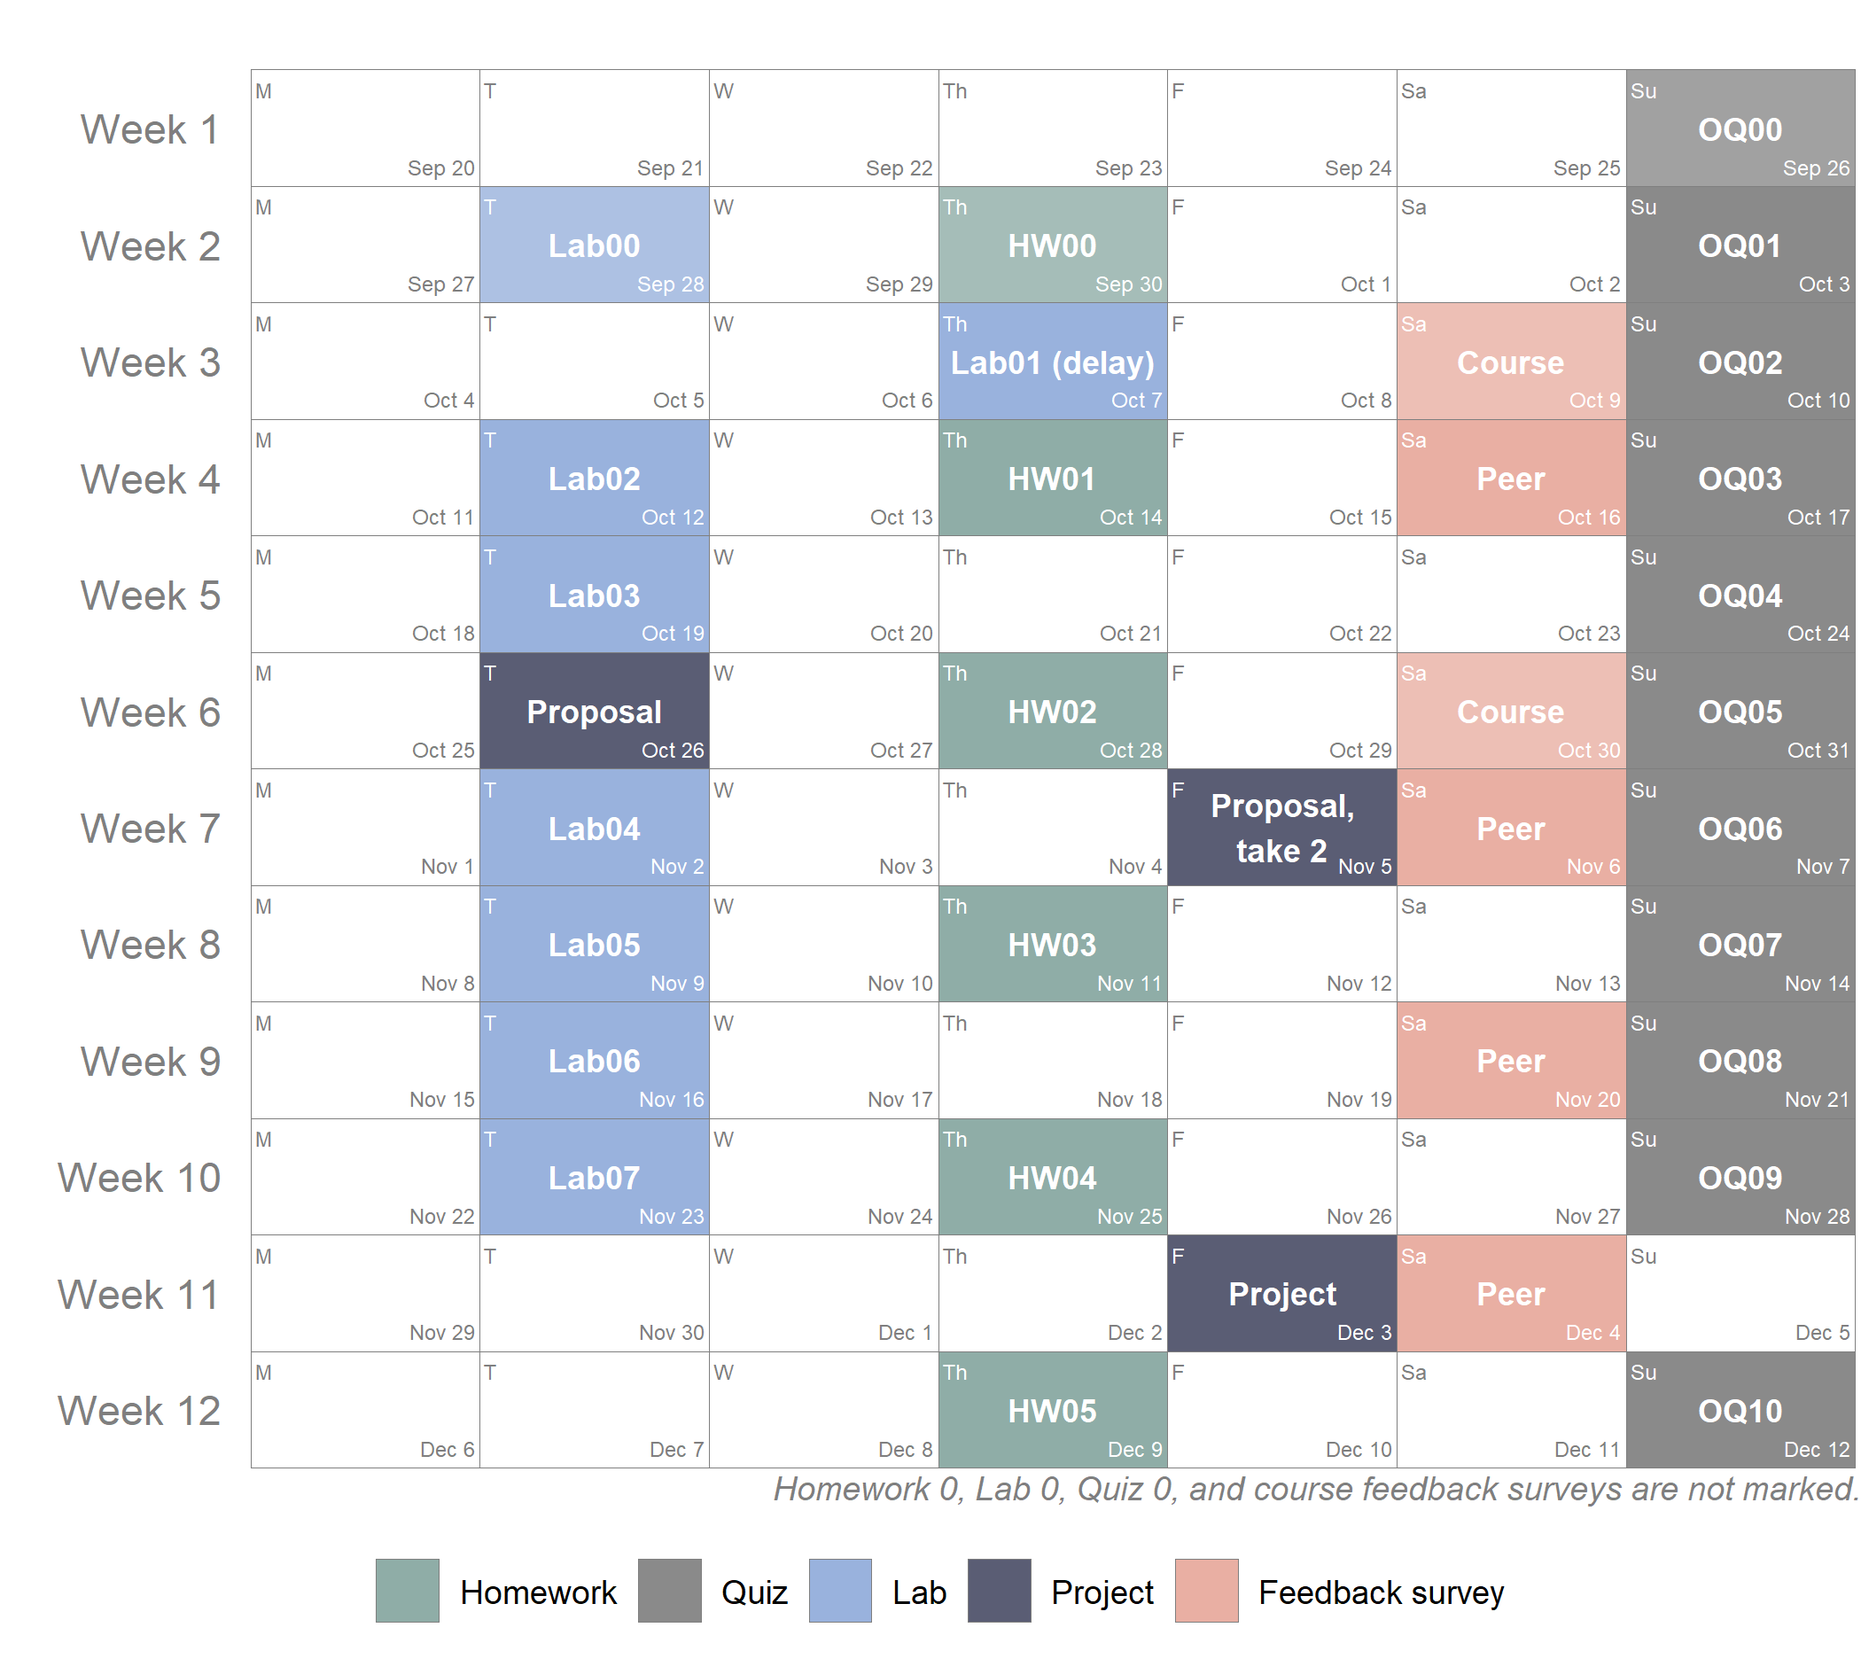
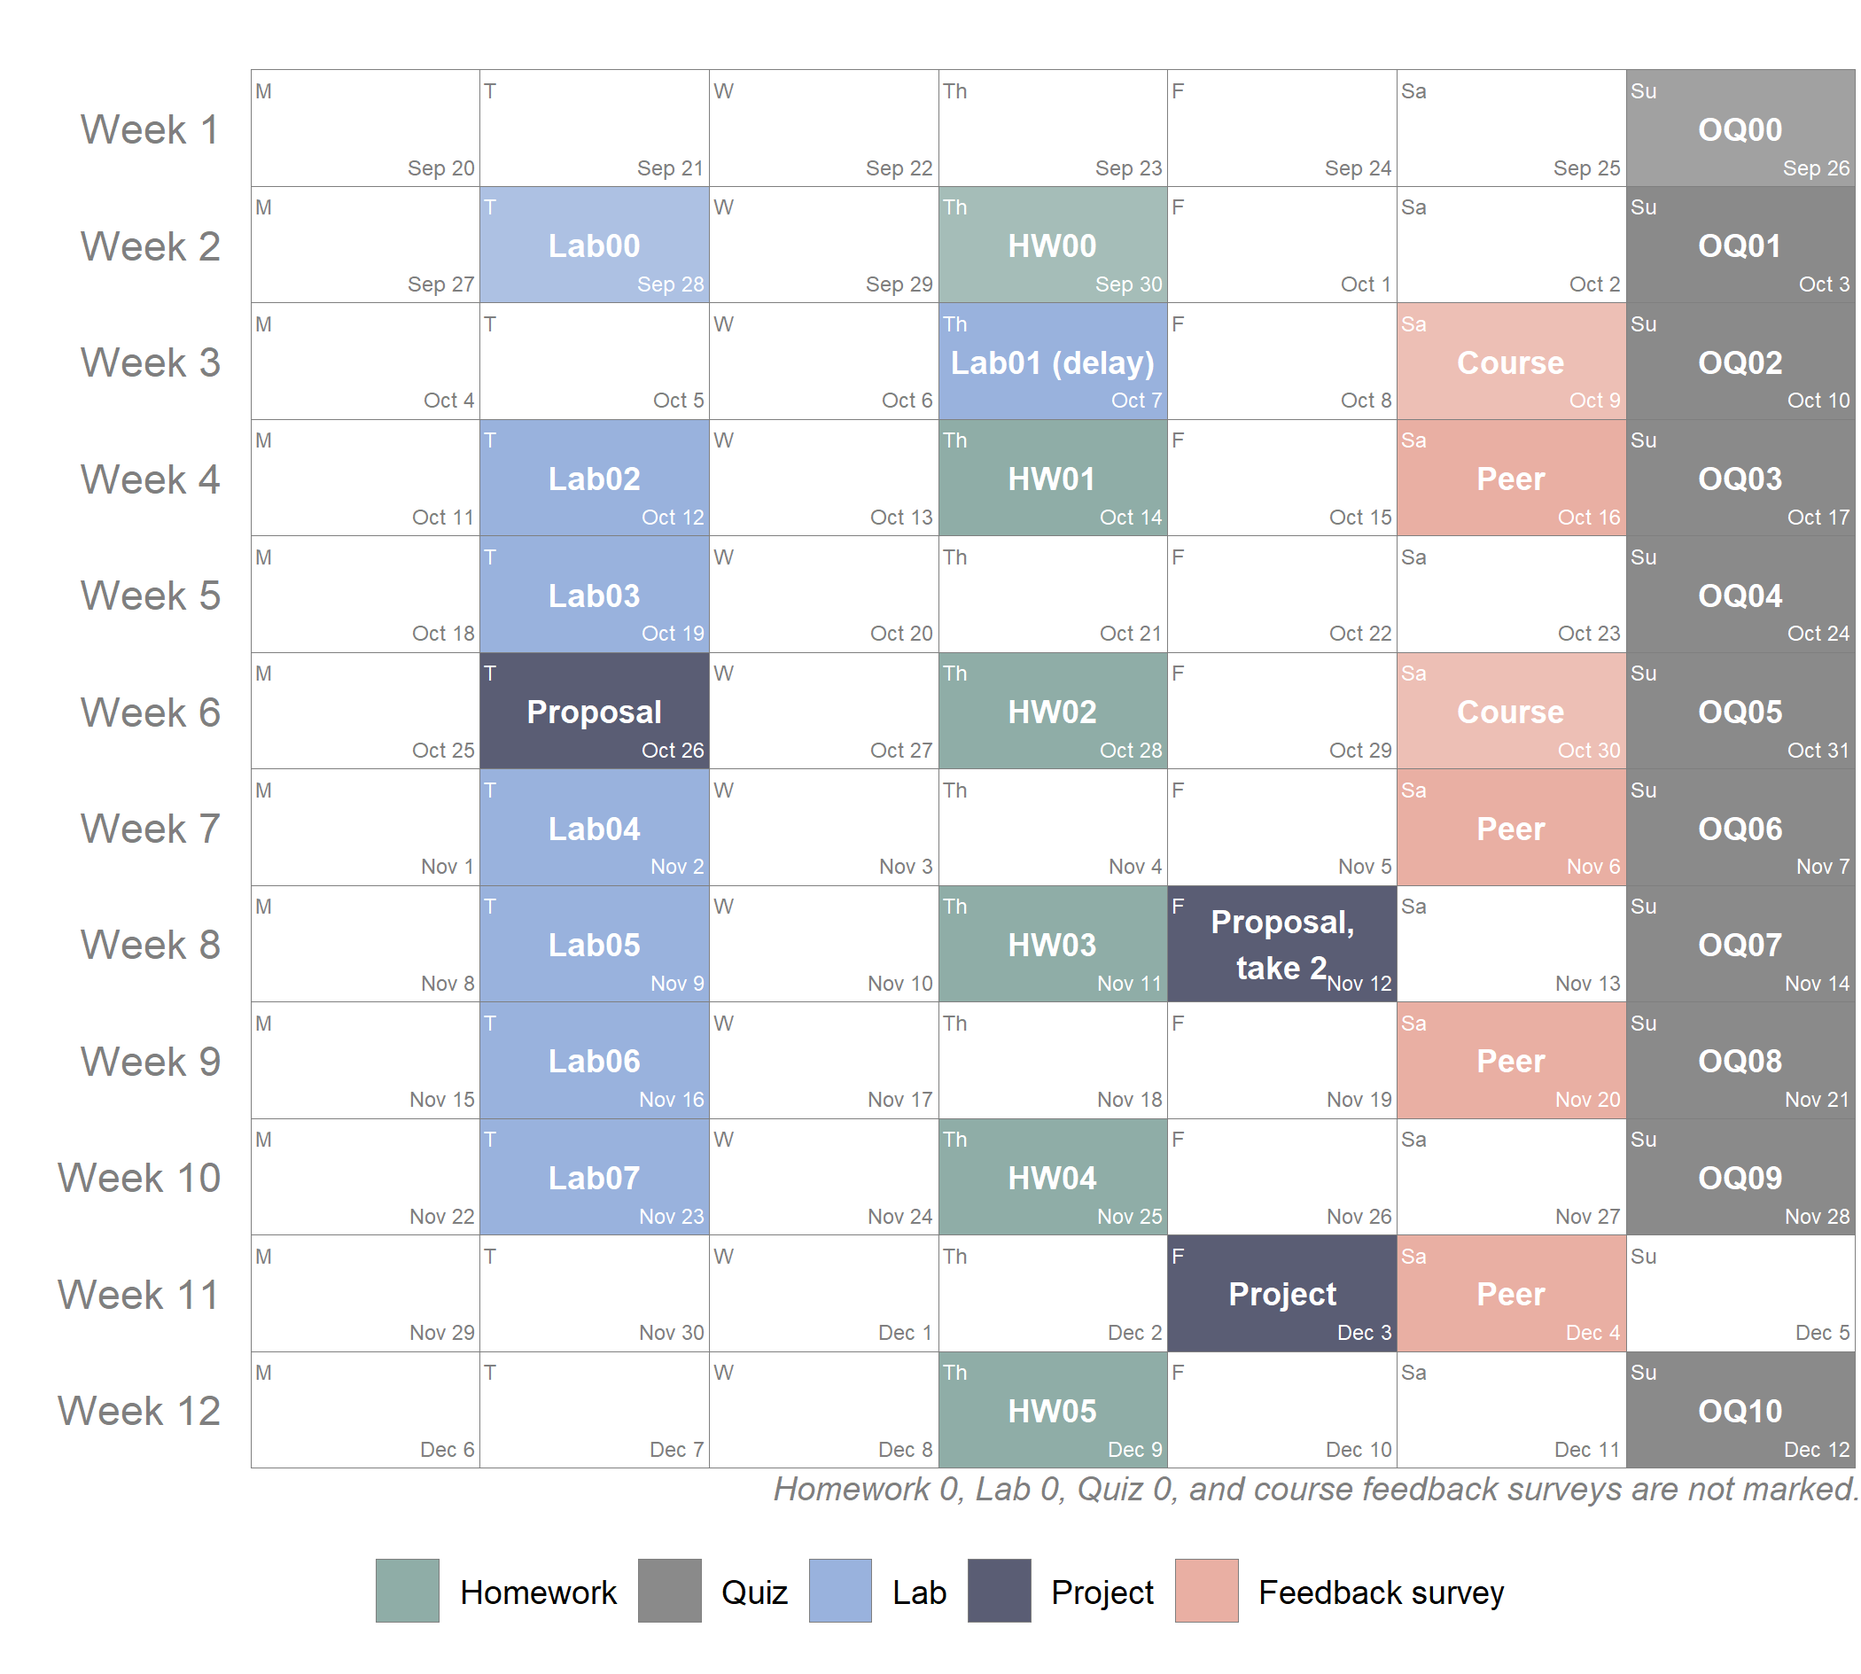
added week 6

Changed region(s): [[0.619, 0.4373, 0.7738, 0.6247]]

diff --git a/static/js/links.js b/static/js/links.js
@@ -24,6 +24,7 @@ try {document.getElementById('PiazzaHelp').href = "/troubleshoot/setup/piazza";}
 try {document.getElementById('Error1').href = "/error";} catch { };
 try {document.getElementById('Error2').href = "/error";} catch { };
 try {document.getElementById('Error3').href = "/error";} catch { };
+try {document.getElementById('Error4').href = "/error";} catch { };
 
 // Videos -----------------------------------------------------------------------------------------------------------
 try {document.getElementById("playlistmh").href = "https://media.ed.ac.uk/playlist/dedicated/1_p6bmjbvr/";} catch { };	// link to the mediahopper page
@@ -185,6 +186,40 @@ try {document.getElementById("W5L6YT").href = "https://youtu.be/b9lSW0kyqBg";} c
 try {document.getElementById("W5L6MH").href = "https://media.ed.ac.uk/media/IDS+-+Week+05+-+06+-+Doing+data+science/1_lja4qg0p";} catch { };	// mediahopper
 try {document.getElementById("W5L6S").href = "https://ids-s1-21.github.io/slides/week-05/w5-d06-doing-data-science/w5-d06-doing-data-science.html#1";} catch { };	// slides
 
+// week 6 lecture 1
+try {document.getElementById("W6L1YT").href = "";} catch { };	// youtube
+try {document.getElementById("W6L1MH").href = "";} catch { };	// mediahopper
+try {document.getElementById("W6L1S").href = "";} catch { };	// slides
+
+// week 6 lecture 2
+try {document.getElementById("W6L2YT").href = "https://youtu.be/99Hkmfb2i80";} catch { };	// youtube
+try {document.getElementById("W6L2MH").href = "https://media.ed.ac.uk/media/IDS+-+Week+06+-+02+-+Web+scraping/1_vxsk6ib7";} catch { };	// mediahopper
+try {document.getElementById("W6L2S").href = "https://ids-s1-21.github.io/slides/week-06/w6-d02-web-scrape/w6-d02-scrape.html#1";} catch { };	// slides
+
+// week 6 lecture 3
+try {document.getElementById("W6L3YT").href = "https://youtu.be/YmKULNLsDsU";} catch { };	// youtube
+try {document.getElementById("W6L3MH").href = "https://media.ed.ac.uk/media/IDS+-+Week+06+-+03+-+Scraping+IMDB+Top+250/1_5qf90v3o";} catch { };	// mediahopper
+try {document.getElementById("W6L3S").href = "https://ids-s1-21.github.io/slides/week-06/w6-d03-top-250-imdb/w6-d03-top-250-imdb.html#1";} catch { };	// slides
+
+// week 6 lecture 4
+try {document.getElementById("W6L4YT").href = "https://youtu.be/LONRJHMvSyU";} catch { };	// youtube
+try {document.getElementById("W6L4MH").href = "https://media.ed.ac.uk/media/IDS+-+Week+06+-+04+-+Web+scraping+considerations/1_brmywhm0";} catch { };	// mediahopper
+try {document.getElementById("W6L4S").href = "https://ids-s1-21.github.io/slides/week-06/w6-d04-considerations/w6-d04-considerations.html#1";} catch { };	// slides
+
+// week 6 lecture 5
+try {document.getElementById("W6L5YT").href = "https://youtu.be/PetWV5g1Xsc";} catch { };	// youtube
+try {document.getElementById("W6L5MH").href = "https://media.ed.ac.uk/media/IDS+-+Week+06+-+05+-+AEA+IMDB+%2B+Web+scraping/1_sia7s04u";} catch { };	// mediahopper
+
+// week 6 lecture 6
+try {document.getElementById("W6L6YT").href = "https://youtu.be/6KWlPhPMluE";} catch { };	// youtube
+try {document.getElementById("W6L6MH").href = "https://media.ed.ac.uk/media/IDS+-+Week+06+-+06+-+Functions/1_jb8cw8s1";} catch { };	// mediahopper
+try {document.getElementById("W6L6S").href = "https://ids-s1-21.github.io/slides/week-06/w6-d06-functions/w6-d06-functions.html#1";} catch { };	// slides
+
+// week 6 lecture 7
+try {document.getElementById("W6L7YT").href = "https://youtu.be/x3UMny1fQhc";} catch { };	// youtube
+try {document.getElementById("W6L7MH").href = "https://media.ed.ac.uk/media/IDS+-+Week+06+-+07+-+Iteration/1_70vyo0z9";} catch { };	// mediahopper
+try {document.getElementById("W6L7S").href = "https://ids-s1-21.github.io/slides/week-06/w6-d07-iteration/w6-d07-iteration.html#1";} catch { };	// slides
+
 // Application Exercises --------------------------------------------------------------------------------------------------------------------------------------------
 try {document.getElementById("AE1a").href = "https://github.com/ids-s1-21?q=ae-01a-un-votes&type=&language=&sort=";} catch { };
 try {document.getElementById("AE1b").href = "https://github.com/ids-s1-21?q=ae-01b-covid&type=&language=&sort=";} catch { };
@@ -276,10 +311,13 @@ try {document.getElementById("HW5R").href = "https://github.com/ids-s1-21?q=hw-0
 
 // Project
 try {document.getElementById('project').href = "/assessments/project";} catch { };
-try {document.getElementById("projectR").href = "https://github.com/ids-s1-21?q=project&type=&language=&sort=";} catch { };	
+try {document.getElementById("projectR").href = "https://github.com/ids-s1-21?q=project&type=&language=&sort=";} catch { };
+try {document.getElementById('project_1').href = "/assessments/project";} catch { };
+try {document.getElementById("projectR_1").href = "https://github.com/ids-s1-21?q=project&type=&language=&sort=";} catch { };
 
 // Peer Feedback ------------------------------------------------------------------------------------------------------------------------------------------
 try {document.getElementById('PE01').href = "https://forms.office.com/r/mbBhLLe6Q4";} catch { };
+try {document.getElementById('PE02').href = "https://forms.office.com/r/8JkWHxWFdF";} catch { };
 
 // Readings ------------------------------------------------------------------------------------------------------------------------------------------------
 try {document.getElementById("R4DS").href = "https://r4ds.had.co.nz";} catch { };		// R4DS
@@ -319,6 +357,10 @@ try {document.getElementById("IMS6").href = "https://openintro-ims.netlify.app/e
 try {document.getElementById("IMS2").href = "https://openintro-ims.netlify.app/data-design.html";} catch { };		// IMS
 try {document.getElementById("TSG1").href = "https://style.tidyverse.org/files.html";} catch { };		// Tidyverse style
 
+try {document.getElementById("selector").href = "https://rvest.tidyverse.org/articles/selectorgadget.html";} catch { };
+try {document.getElementById("R4DS19").href = "https://r4ds.had.co.nz/functions.html";} catch { };
+try {document.getElementById("R4DS21").href = "https://r4ds.had.co.nz/iteration.html";} catch { };
+
 // Code-Along ----------------------------------------------------------------------------------------------------------------------------------------------
 try {document.getElementById("CARepo").href = "https://ids-s1-21.github.io/code-along/";} catch { };
 try {document.getElementById("CA1YT").href = "https://youtu.be/VPbOLhU1QY8";} catch { };
@@ -345,6 +387,9 @@ try {document.getElementById("RT3").href = "https://minecr.shinyapps.io/dsbox-02
 try {document.getElementById("RT4").href = "https://rstudio.cloud/learn/primers/2";} catch { };
 try {document.getElementById("RT5").href = "https://minecr.shinyapps.io/dsbox-03-collegemajors";} catch { };
 try {document.getElementById("RT6").href = "https://minecr.shinyapps.io/dsbox-04-legosales/";} catch { };
+try {document.getElementById("RT7").href = "https://minecr.shinyapps.io/dsbox-05-moneyinpolitics/";} catch { };
+try {document.getElementById("RT8").href = "https://rstudio.cloud/learn/primers/6";} catch { };
+try {document.getElementById("RT9").href = "https://rstudio.cloud/learn/primers/5";} catch { };
 
 // Datasets ---------------------------------------------------------------------------------------------------------------------------------------------
 // TidyTuesday

diff --git a/content/week06/_index.en.md b/content/week06/_index.en.md
@@ -7,7 +7,7 @@ weight: 6
 tags: ["week 6", "tasks", "videos", "assignments", "readings", "code-along", "tutorials"] 
 description: "Week 6 (25 Oct 2021 - 31 Oct 2021): Harvesting data from the web, writing functions, and iteration."
 
-hidden: true
+hidden: false
 ---
 
 # Web Scraping and Programming
@@ -29,9 +29,19 @@ Harvesting data from the web, writing functions, and iteration.
 
 <p style="text-align: left">You have two options for watching the course videos, on YouTube or on MediaHopper. You can also find a playlists for all course videos on YouTube <a id="playlistyt">here</a> and on MediaHopper <a id="playlistmh">here</a>.
 
+| <div style="width:50px;text-align:center">No.</div> | <div style="width:250px;text-align:left">Title</div> | <div style="width:80px;text-align:center">YouTube</div> | <div style="width:100px;text-align:center">MediaHopper</div> |  <div style="width:80px;text-align:center">Slides</div> | <div style="width:170px;text-align:center">Additional Links</div> | 
+|:---:|:---------------------|:-------:|:-----------:|:--------:|:------|
+| 01  | Keeping up with IDS: Week 6 | <a id="Error1"><span style="color: red;"><i class="fab fa-youtube fa-lg" /></span></a> | <a id="Error2"><span style="color: #0A1E3F;"><i class="fas fa-file-video fa-lg"/></span></a> | <a id="Error3"><span style="color: #4b5357;"><i class="fas fa-desktop fa-lg"/></span></a> | - |
+| 02  | 	Web scraping | <a id="W6L2YT"><span style="color: red;"><i class="fab fa-youtube fa-lg" /></span></a> | <a id="W6L2MH"><span style="color: #0A1E3F;"><i class="fas fa-file-video fa-lg"/></span></a> | <a id="W6L2S"><span style="color: #4b5357;"><i class="fas fa-desktop fa-lg"/></span></a>  | - |
+| 03  | 	Scraping top 250 movies on IMDB  | <a id="W6L3YT"><span style="color: red;"><i class="fab fa-youtube fa-lg" /></span></a> | <a id="W6L3MH"><span style="color: #0A1E3F;"><i class="fas fa-file-video fa-lg"/></span></a> | <a id="W6L3S"><span style="color: #4b5357;"><i class="fas fa-desktop fa-lg"/></span></a>  | - |
+| 04  | 	Web scraping considerations    | <a id="W6L4YT"><span style="color: red;"><i class="fab fa-youtube fa-lg" /></span></a> | <a id="W6L4MH"><span style="color: #0A1E3F;"><i class="fas fa-file-video fa-lg"/></span></a> | <a id="W6L4S"><span style="color: #4b5357;"><i class="fas fa-desktop fa-lg"/></span></a>  | - |
+| 05  | AE: IMDB + Web scraping | <a id="W6L5YT"><span style="color: red;"><i class="fab fa-youtube fa-lg" /></span></a> | <a id="W6L5MH"><span style="color: #0A1E3F;"><i class="fas fa-file-video fa-lg"/></span></a> | - | <li><a id="AE8">AE8. Repository</a></li> |
+| 06  | Functions | <a id="W6L6YT"><span style="color: red;"><i class="fab fa-youtube fa-lg" /></span></a> | <a id="W6L6MH"><span style="color: #0A1E3F;"><i class="fas fa-file-video fa-lg"/></span></a> | <a id="W6L6S"><span style="color: #4b5357;"><i class="fas fa-desktop fa-lg"/></span></a>   | - |
+| 07  | Iteration | <a id="W6L7YT"><span style="color: red;"><i class="fab fa-youtube fa-lg" /></span></a> | <a id="W6L7MH"><span style="color: #0A1E3F;"><i class="fas fa-file-video fa-lg"/></span></a> | <a id="W6L7S"><span style="color: #4b5357;"><i class="fas fa-desktop fa-lg"/></span></a>   | - |
+
 ## Assignments
 
-<p style="text-align: left">If you are having difficulty accessing your HW or Lab repo, see troubleshooting advice <a id="troubleshoot">here</a></p>.
+<p style="text-align: left">If you are having difficulty accessing your HW or Lab repo, see troubleshooting advice <a id="troubleshoot">here</a>.</p>
 
 | <div style="width:300px;text-align:left">Assignment Title</div> | <div style="width:170px;text-align:left">Links</div> | <div style="width:180px;text-align:left">Due</div> |
 |:---|:---|:---|
@@ -41,15 +51,15 @@ Harvesting data from the web, writing functions, and iteration.
 | OQ05: Scrape + iterate | <li><a id="OQ5">Quiz</a></li> | Sun, 31 Oct, 23:59 UK |
 | *Due next week* | | | 
 | Lab04: UoE Art Collection | <li><a id="LAB4I">Instructions</a></li> <li><a id="LAB4R">Repository</a></li> | Tue, 2 Nov, 16:00 UK  |
-| PE02: Peer evaluation 02 | <li><a id="PE02">Survey</a></li> | Wed, 03 Nov, 16:00 UK |
-| Project: Proposal, take 2 (optional) | <li><a id="project">Instructions</a></li><li><a id="projectR">Repository</a></li> | Tue, 5 Nov, 16:00 UK | 
-| OQ06: Review | <li><a id="OQ6">Quiz</a></li> | Sun, 7 Nov, 23:59 UK |
+| OQ06: Recap & Review | <li><a id="Error4">Quiz</a></li> | Sun, 7 Nov, 23:59 UK |
 
 ## Readings
 
 | <div style="width:50px"></div>  | <div style="width:420px"></div>  |  <div style="width:200px"></div> |
 |:---:|:---|:---:|
-| <i class="fas fa-book"></i> |  | **Required** |
+| <i class="fas fa-laptop"></i> | <a id="selector">Selector Gadget</a> | **Required** |
+| <i class="fas fa-book"></i> | R4DS: <a id="R4DS19">Chp 19 - Functions</a> | **Required** |
+| <i class="fas fa-book"></i> | R4DS: <a id="R4DS21">Chp 21 - Iteration</a> | Optional |
 
 ## Code-along
 
@@ -62,8 +72,10 @@ Harvesting data from the web, writing functions, and iteration.
 
 ## Interactive R tutorials
 
-<p style="text-align: left"> The following interactive R tutorials is designed to give you more practice with R. If you're struggling with any of the topics covered this week, we strongly recommend you work through it.</p>
+<p style="text-align: left"> The following are interactive R tutorials, designed to give you more practice with R. These are optional, but they will show up in your next homework assignment, so you should gain familiarity with it. If you’re struggling with any of the topics covered this week, we strongly recommend you work through the interactive tutorials.</p>
 
 |  <div style="width:480px"></div>  |  <div style="width:200px"></div>  |
 |:---|:---|
-| [INSERT] | Extra practice |
+| <a id="RT7">Money in US Politics</a> | Related to HW 03 |
+| <a id="RT8">Write functions</a> | Extra practice |
+| <a id="RT9">Iterate</a> | Extra practice |

diff --git a/content/week07/_index.en.md b/content/week07/_index.en.md
@@ -22,6 +22,7 @@ Misrepresentation of findings, data privacy, and algorithmic bias.
   <li>Watch the <a href="#videos">Videos</a>.</li>
   <li>Do the <a href="#readings">Readings</a>.</li>
   <li>Complete the <a href="#assignments">Assignments</a>.</li>
+  <li>(Optional) Complete the <a id="PE02">Peer Evaluation</a>.</li>
 </ol>
 
 ## Videos
@@ -37,11 +38,11 @@ Misrepresentation of findings, data privacy, and algorithmic bias.
 | *Due this week* | | |
 | Lab04: UoE Art Collection | <li><a id="LAB4I">Instructions</a></li> <li><a id="LAB4R">Repository</a></li> | Tue, 2 Nov, 16:00 UK  |
 | PE02: Peer evaluation 02 | <li><a id="PE02">Survey</a></li> | Wed, 03 Nov, 16:00 UK |
-| Project: Proposal, take 2 (optional) | <li><a id="project">Instructions</a></li><li><a id="projectR">Repository</a></li> | Tue, 5 Nov, 16:00 UK | 
 | OQ06: Review | <li><a id="OQ6">Quiz</a></li> | Sun, 7 Nov, 23:59 UK |
 | *Due next week* | | | 
 | Lab05: 	Conveying the right message through visualisation | <li><a id="LAB5I">Instructions</a></li> <li><a id="LAB5R">Repository</a></li> | Tue, 9 Nov, 16:00 UK  |
 | HW03: Money in politics | <li><a id="HW3I">Instructions</a></li><li><a id="HW3R">Repository</a></li> | Thur, 11 Nov, 16:00 UK |
+| Project: Proposal, take 2 (optional) | <li><a id="project">Instructions</a></li><li><a id="projectR">Repository</a></li> | Fri, 12 Nov, 16:00 UK |
 | OQ07: Simple Linear Regression | <li><a id="OQ7">Quiz</a></li> | Sun, 14 Nov, 23:59 UK |
 
 ## Readings

diff --git a/content/week08/_index.en.md b/content/week08/_index.en.md
@@ -37,6 +37,7 @@ Linear models for predicting numerical data from single and multiple variables.
 | *Due this week* | | |
 | Lab05: 	Conveying the right message through visualisation | <li><a id="LAB5I">Instructions</a></li> <li><a id="LAB5R">Repository</a></li> | Tue, 9 Nov, 16:00 UK  |
 | HW03: Money in politics | <li><a id="HW3I">Instructions</a></li><li><a id="HW3R">Repository</a></li> | Thur, 11 Nov, 16:00 UK | 
+| Project: Proposal, take 2 (optional) | <li><a id="project_1">Instructions</a></li><li><a id="projectR_1">Repository</a></li> | Fri, 12 Nov, 16:00 UK | 
 | OQ07: Simple Linear Regression | <li><a id="OQ7">Quiz</a></li> | Sun, 14 Nov, 23:59 UK |
 | *Due next week* | | | 
 | Lab06: Course evaluations | <li><a id="LAB6I">Instructions</a></li> <li><a id="LAB6R">Repository</a></li> | Tue, 16 Nov, 16:00 UK  |
